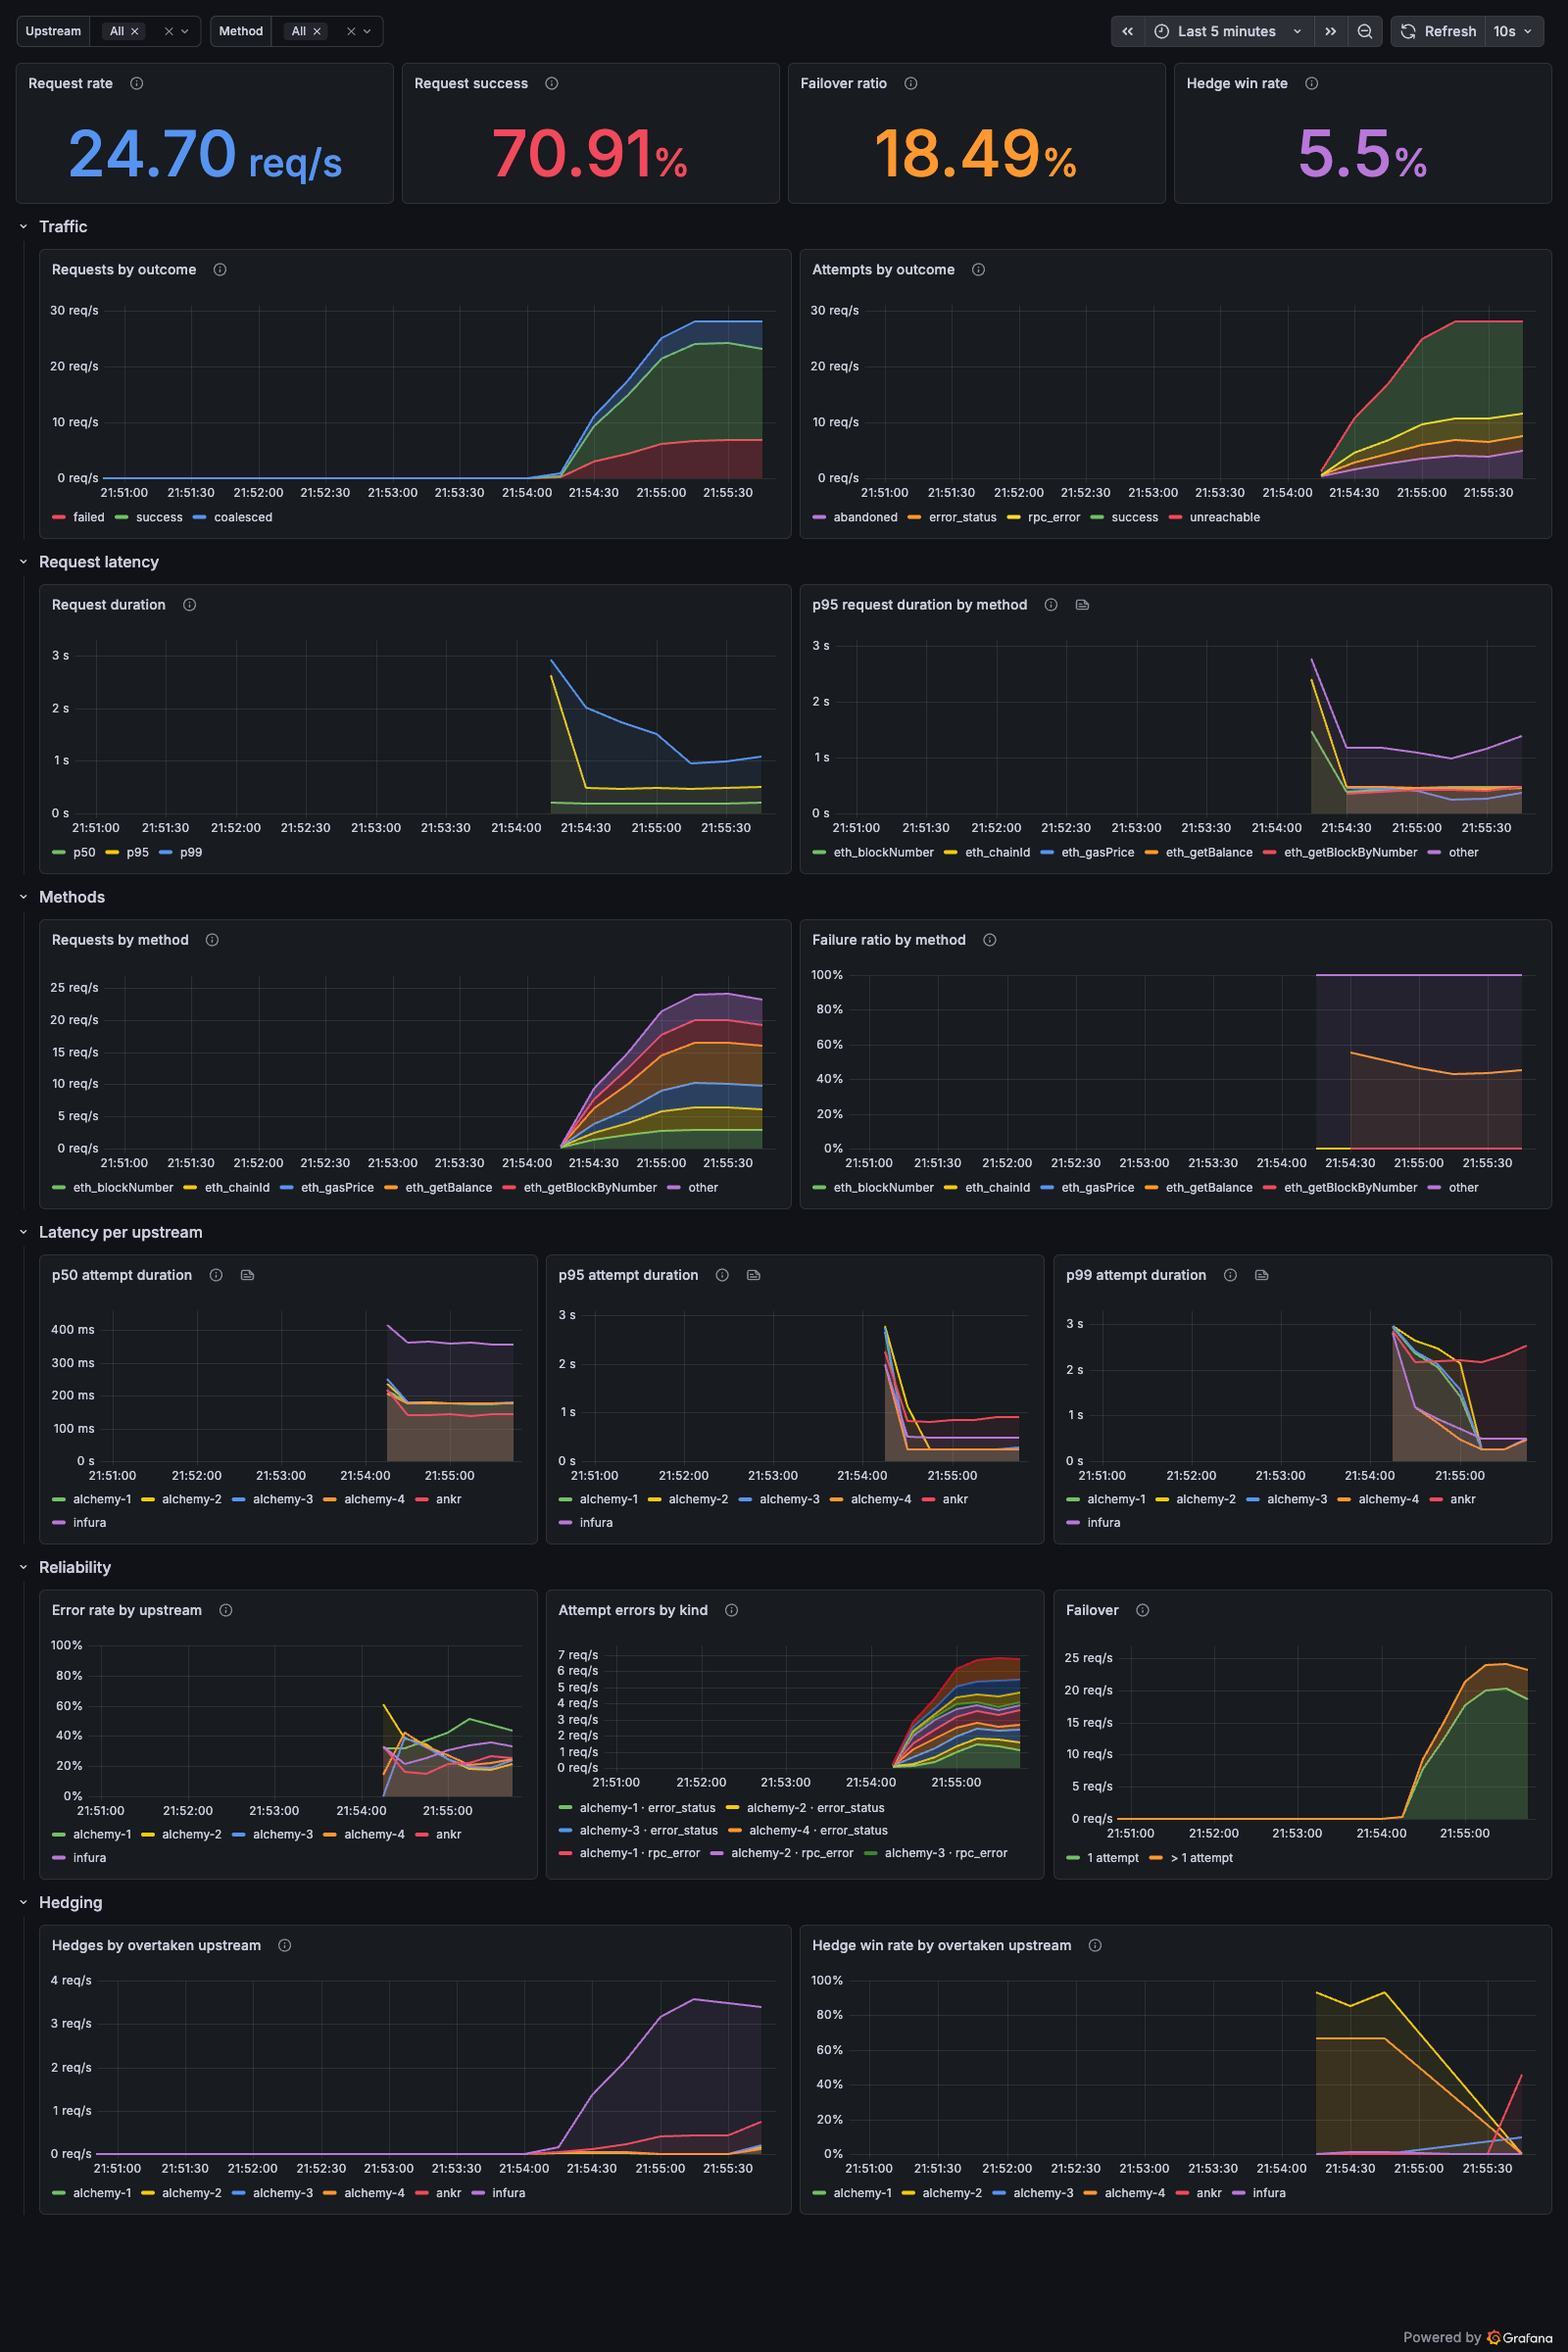
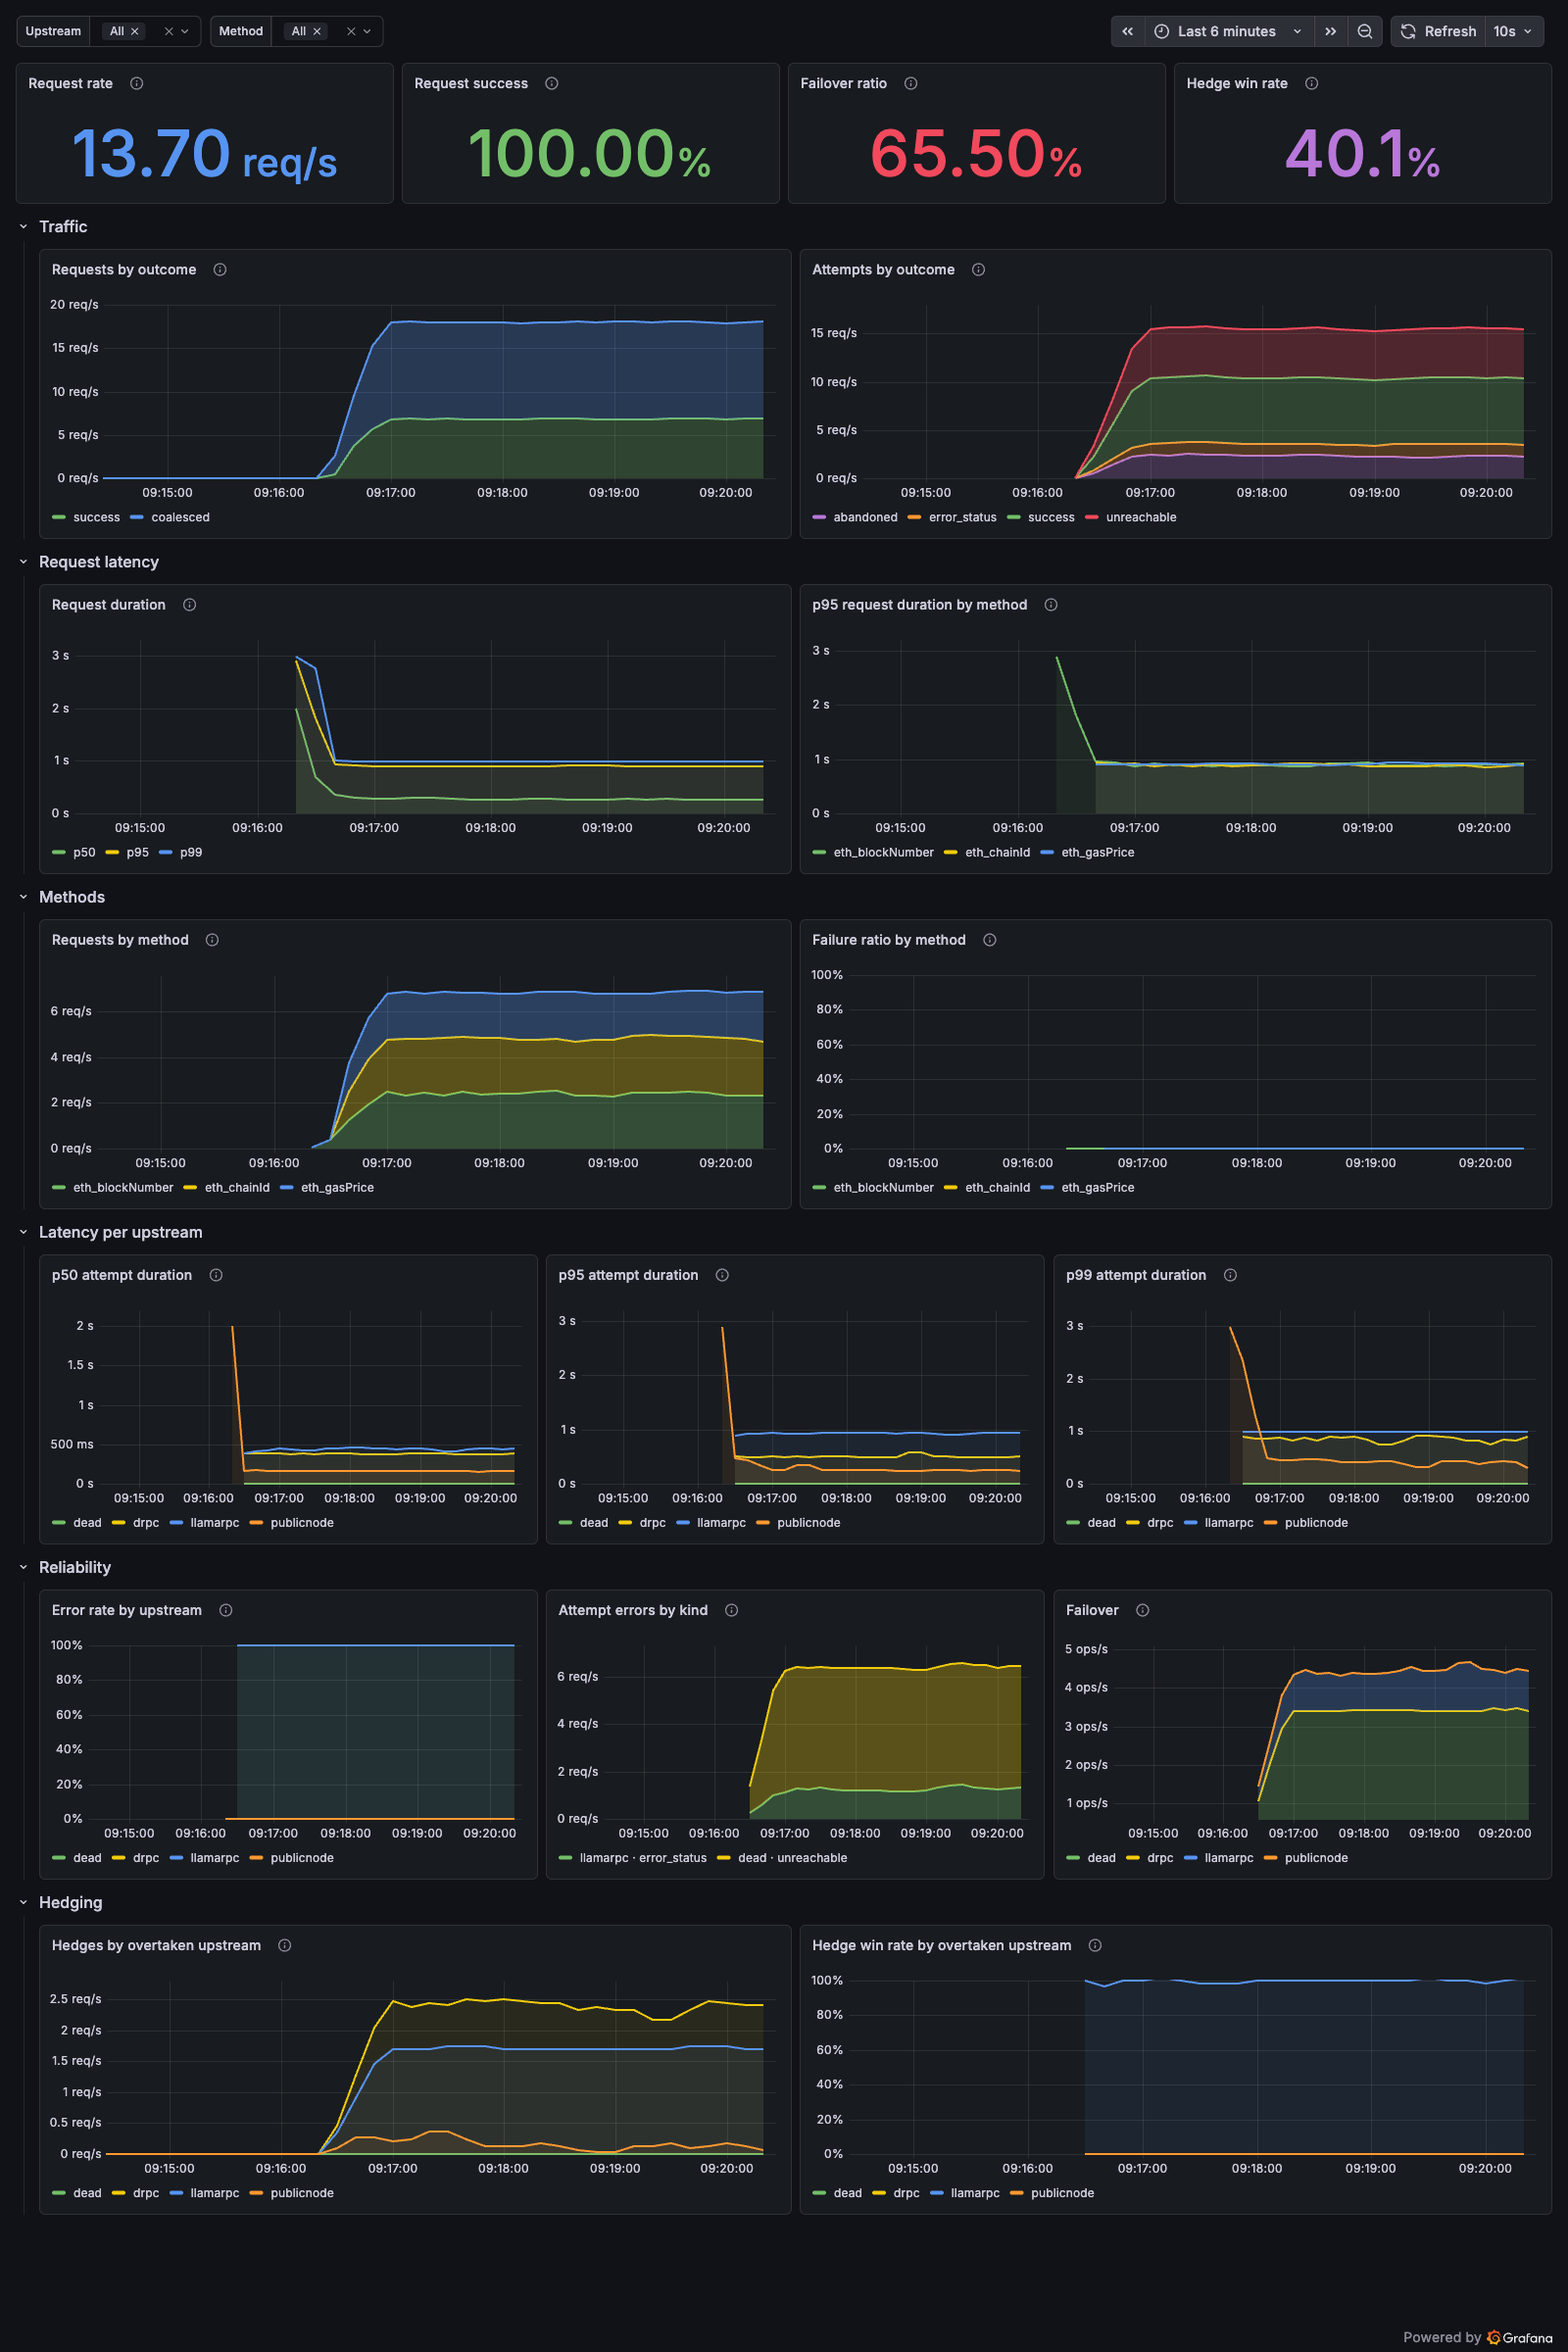
📝 docs: refresh dashboard screenshot and failover panel source

diff --git a/README.md b/README.md
@@ -97,10 +97,10 @@ Grafana opens on the provisioned **rpc-plus-plus** dashboard without a login (an
 | p50 / p95 / p99 per upstream | `rpc_attempt_duration_seconds` |
 | Error rate by upstream | failed answers over all answers in `rpc_attempts_total`; abandoned calls left out |
 | Attempt errors by kind | `rpc_attempts_total` by `upstream` and failed `outcome` |
-| Failover | `rpc_request_attempts`: requests that took more than one attempt |
+| Failover ratio, Failover | `rpc_failovers_total{upstream}`: the chain moved past that upstream after a retryable failure; hedges not counted |
 | Hedges, hedge win rate | `rpc_hedges_total`, `rpc_hedge_wins_total` by overtaken `upstream` |
 
-`rpc_requests_total` counts each request that ran its own upstream chain, once, however it ended; a coalesced follower shows up in `rpc_requests_coalesced_total` instead, and a rejected batch in neither. `rpc_request_attempts` is how many upstream calls that chain made. With hedging on, a hedge is an attempt too, so "more than one attempt" means failover *or* a hedge. `rpc_request_duration_seconds` times that same chain end to end, from receiving the request to its answer, failovers and hedges included.
+`rpc_requests_total` counts each request that ran its own upstream chain, once, however it ended; a coalesced follower shows up in `rpc_requests_coalesced_total` instead, and a rejected batch in neither. `rpc_request_attempts` is how many upstream calls that chain made. With hedging on, a hedge is an attempt too, so "more than one attempt" means failover *or* a hedge; `rpc_failovers_total` counts failovers alone. `rpc_request_duration_seconds` times that same chain end to end, from receiving the request to its answer, failovers and hedges included.
 
 All three carry `method`: one of the known read and send methods, or `other` for anything else, so the label can't grow with what callers send. A method only appears on `/metrics` once a request for it has run.
 
